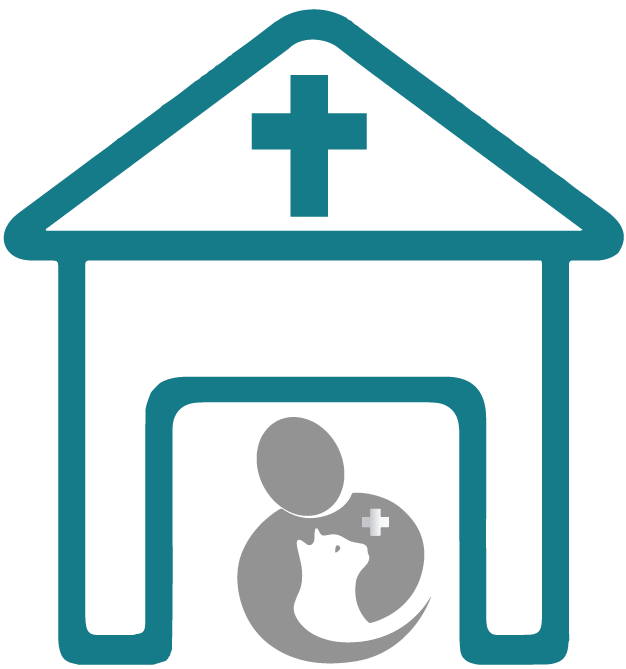
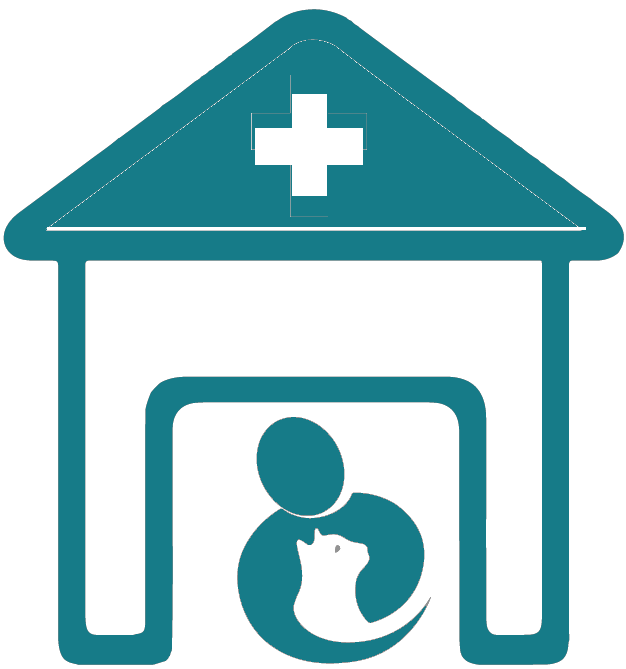
Cambio de icono y traduccion de medical, cambio manifest de m_medication y m_appoitment

diff --git a/medical_medication/__manifest__.py b/medical_medication/__manifest__.py
@@ -25,7 +25,7 @@
         "views/medical_medication_dosage_view.xml",
         "views/medical_medication_template_view.xml",
         "views/medical_patient_medication_view.xml",
-        "views/medical_patient_view.xml",
+        # "views/medical_patient_view.xml",
         "views/medical_menu.xml",
     ],
     "demo": [

diff --git a/medical_appointment/__manifest__.py b/medical_appointment/__manifest__.py
@@ -16,6 +16,7 @@
     'data': [
         'views/medical_appointment_view.xml',
         'views/medical_menu.xml',
+        'views/medical_patient.xml',
         'security/ir.model.access.csv',
         'security/medical_security.xml',
         'data/auditlog_rule.xml',
